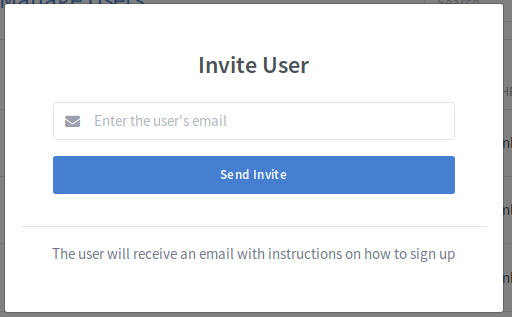
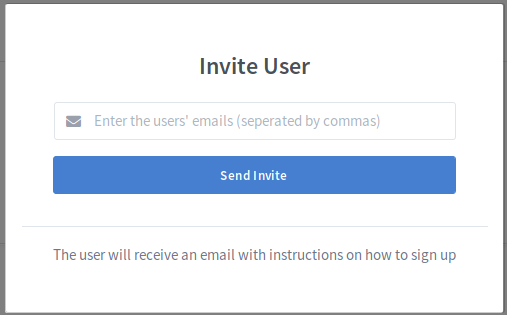
Updated docs for Greenlight v2.3.3 (#117)

diff --git a/_posts/2019-04-15-gl-admin.md b/_posts/2019-04-15-gl-admin.md
@@ -171,7 +171,9 @@ To invite a user, click in the Invite User button that is beside the Search Bar.
 
 ![Greenlight Administrator Invite Button](/images/greenlight/admin_invite_button.png)
 
-Enter the users email and click Send Invite. The user will receive an email with a button that will link them to the sign up page. 
+To send an email to multiple users, enter their emails seperated by a comma. If you would like to invite only 1 user, enter their email with no commas.
+
+The user(s) will receive an email with a button that will link them to the sign up page. 
 
 ![Greenlight Administrator Invite Modal](/images/greenlight/admin_invite_modal.png)
 
